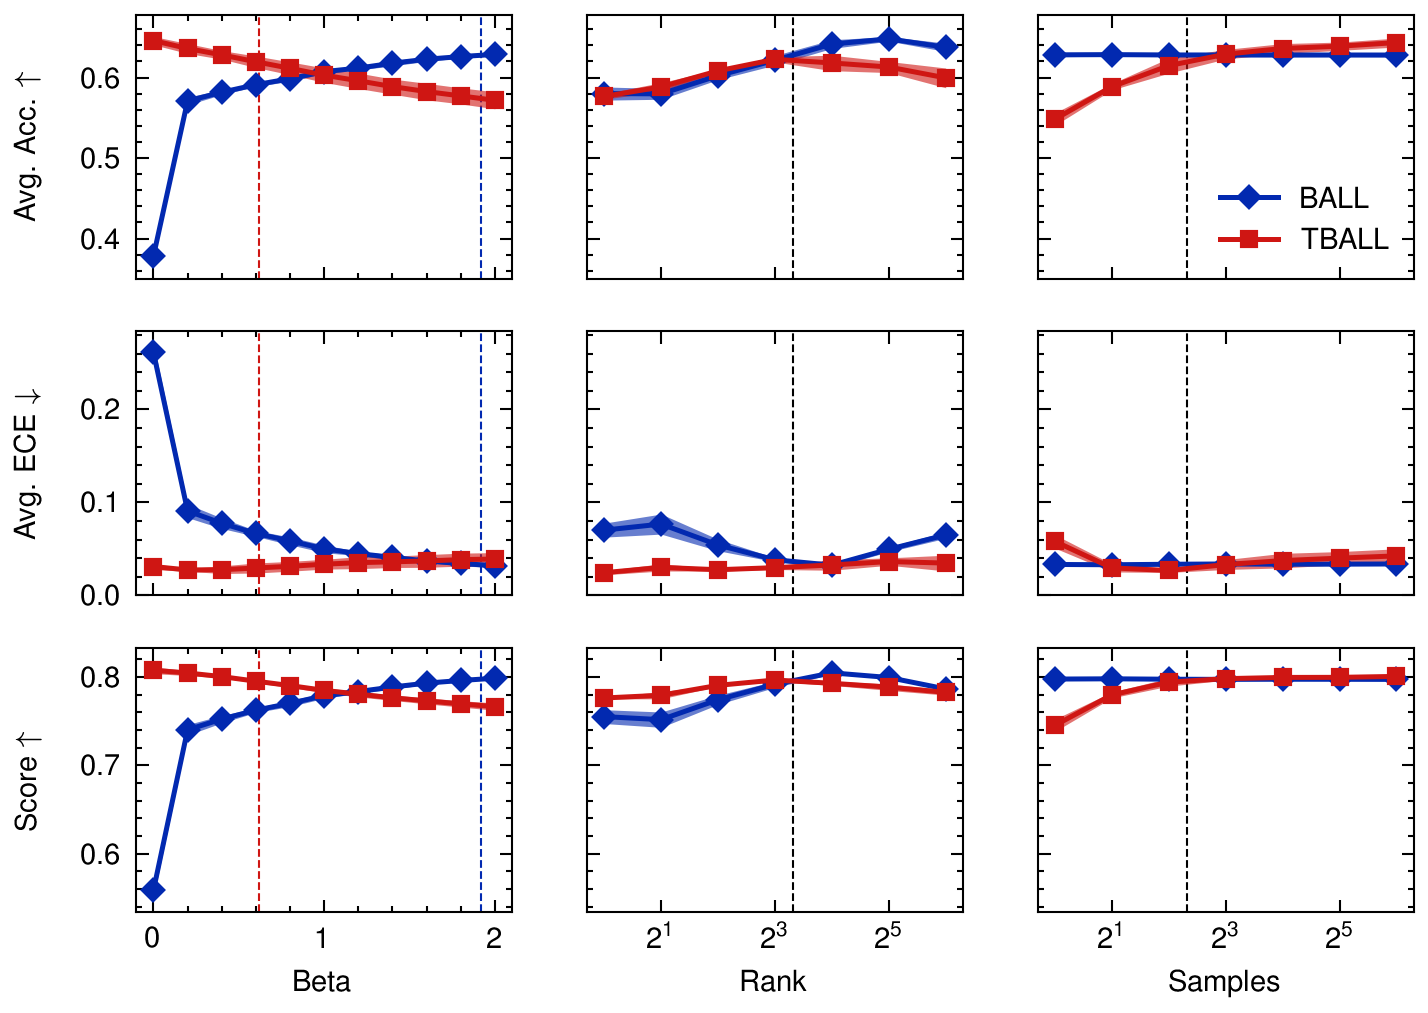
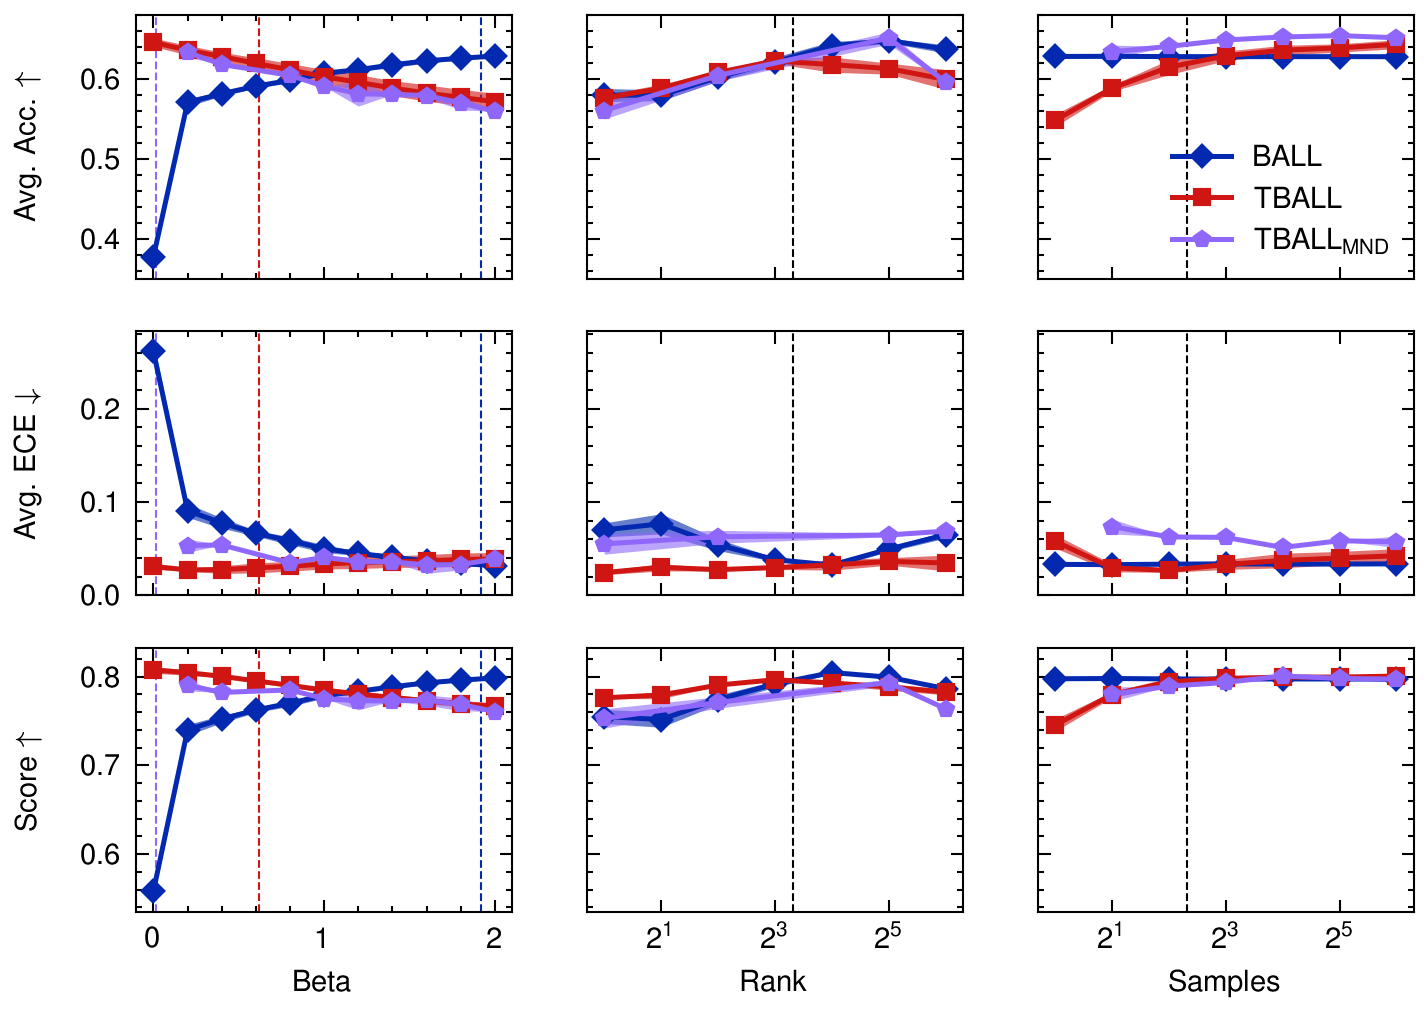
Refactor accuracy calibration plots and enhance sensitivity analysis
- Commented out alpha parameter in accuracy calibration plot for better visibility.
- Updated plot saving logic to save both PDF and PNG formats for accuracy calibration and hpsearch plots.
- Adjusted point sizes in accuracy calibration plots for improved clarity.
- Added missing methods to sensitivity analysis for consistency.
- Improved logging format in InfLoRA plugin for better readability.
- Fixed JSONNet configurations to ensure proper imports and structure.
- Updated hpsearch CLI to reflect changes in method configurations and file extensions.

diff --git a/script/hpsearch_cli.py b/script/hpsearch_cli.py
@@ -5,15 +5,15 @@ DATASETS = [
 ]
 
 METHODS = [
-    "ball",
-    "clora",
-    "ewc",
-    "joint",
-    "lora",
     "rwalk",
+    "ewc",
+    "lora",
+    "clora",
     "sdlora",
-    "si",
+    "inflora",
+    "ball",
     "tball",
+    "tball-mnd",
 ]
 
 
@@ -23,13 +23,13 @@ def run_string(dataset, method):
         f"ts -G 1 -L {label:<11}",
         "notirun.sh",
         "python main.py",
-        f"-c configs/{dataset}/{method}.yaml".rjust(35),
+        f"-c configs/{dataset}/{method}.jsonnet".rjust(40),
         "hpsearch hp",
     ]
     return " ".join(cli)
 
 
-for method in METHODS:
-    for dataset in DATASETS:
+for dataset in DATASETS:
+    for method in METHODS:
         print(run_string(dataset, method))
     print()

diff --git a/bayescl/methods/inflora/_module.py b/bayescl/methods/inflora/_module.py
@@ -263,9 +263,9 @@ class InfLoRAEngine:
         for _, layer in iter_inflora_layers(self.model):
             for branch in layer.branches.values():
                 assert isinstance(branch, _LowRankBranch)
-                x += branch.adapter.numel() # type: ignore
+                x += branch.adapter.numel()  # type: ignore
         return x
-    
+
     def buffer_count(self) -> int:
         x = 0
         for _, layer in iter_inflora_layers(self.model):
@@ -274,7 +274,6 @@ class InfLoRAEngine:
                 x += branch.basis.numel()  # type: ignore
         x += self.memory.buffer_count()
         return x
-
 
     def trainable_parameters(
         self,

diff --git a/bayescl/methods/inflora/_plugin.py b/bayescl/methods/inflora/_plugin.py
@@ -80,7 +80,9 @@ class InfLoRAPlugin(SupervisedPlugin):
         assert self._engine
         parameter_count = self._engine.parameter_count()
         buffer_count = self._engine.buffer_count()
-        logger.info(f"InfLoRA task {context.task_index} parameters: {parameter_count}, buffers: {buffer_count}")
+        logger.info(
+            f"InfLoRA task {context.task_index} parameters: {parameter_count}, buffers: {buffer_count}"
+        )
 
         logger.info(f"InfLoRA finalize task {context.task_index}")
         engine.finalize_task(